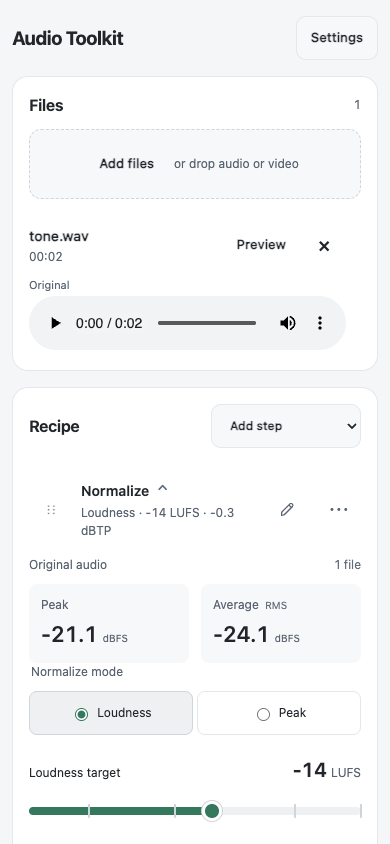
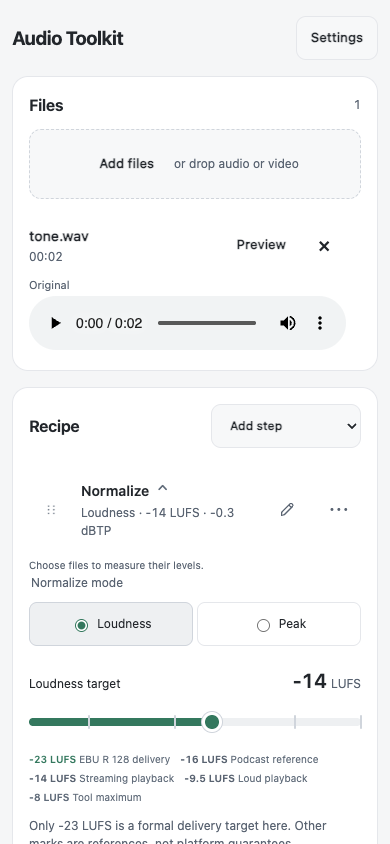
fix(sprint-24): reach peak targets without the ceiling guard
Peak mode subtracted the 1.0 dB ceiling guard, so a 0 dBTP request always landed near -1.0 dBTP. The guard now only applies to loudness ceiling decisions. The result line names the target, the DSP check expects the exact target, and the evidence no longer claims a one-directional meter under-read.

diff --git a/src/pcm/blocks.ts b/src/pcm/blocks.ts
@@ -2,9 +2,10 @@ import { LoudnessMeter, type LoudnessMeasurement } from "./loudness.ts";
 import type { Recipe } from "../recipe";
 
 export const BLOCK_FRAMES = 4096;
-// The BS.1770 true-peak meter can under-read ffmpeg by about 0.9 dB on
-// high-frequency content near Nyquist. Ceiling and true-peak target decisions
-// keep this margin. Reported peaks stay the measured value, not the padded one.
+// The BS.1770 true-peak meter can differ from ffmpeg near Nyquist in either
+// direction; a phase sweep read up to 0.64 dB above it. Loudness-mode ceiling
+// decisions keep this margin. A peak-mode target aims at the requested dBTP
+// directly. Reported peaks stay the measured value, not a padded one.
 export const TRUE_PEAK_CEILING_GUARD_DB = 1.0;
 export type PcmBlock = Readonly<{
   origin: number;
@@ -142,9 +143,7 @@ export async function* normalize(
         }
       } else if (truePeakMode) {
         const peak = measurement.truePeak > 0 ? measurement.truePeak : measurement.samplePeak;
-        requestedGain =
-          10 ** (targetDbtp / 20) /
-          (peak * 10 ** (TRUE_PEAK_CEILING_GUARD_DB / 20));
+        requestedGain = 10 ** (targetDbtp / 20) / peak;
         gainFactor = Math.min(1000, requestedGain);
       } else {
         // Legacy peak recipes keep their sample-peak meaning.

diff --git a/src/recipe-editor.tsx b/src/recipe-editor.tsx
@@ -256,7 +256,7 @@ function StepFields({
         </> : <>
           <DbControl label="Peak target (dBTP)" value={targetDbtp} min={-6} max={0} unit="dBTP" errorId={errorId}
             onChange={targetDbtp => onChange({ id: step.id, kind: "normalize", mode: "peak", targetDbtp })} />
-          <small class="panel-description">Peak mode matches the estimated true peak with a meter guard below the target. The loudness target is not used.</small>
+          <small class="panel-description">Peak mode aims at the requested true peak. The reported peak is this app's estimate, so another meter can read a little differently. The loudness target is not used.</small>
         </>}
       </>;
     }

diff --git a/src/file-row.tsx b/src/file-row.tsx
@@ -222,7 +222,7 @@ export function FileRow({
               {pcmStats && pcmStats.peakTargetDbtp !== null && pcmStats.truePeakDbtp !== null && (
                 <small>
                   {pcmStats.limitedNormalizations > 0 ? "Limited by the maximum gain" : "Peak target applied"} at the Peak step.
-                  {` Estimated true peak ${pcmStats.truePeakDbtp.toFixed(1)} dBTP.`}
+                  {` Estimated true peak ${pcmStats.truePeakDbtp.toFixed(1)} dBTP against a ${pcmStats.peakTargetDbtp.toFixed(1)} dBTP target.`}
                   {laterNote}
                 </small>
               )}

diff --git a/docs/sprint-evidence/sprint-24/scenario-01.md b/docs/sprint-evidence/sprint-24/scenario-01.md
@@ -1,12 +1,12 @@
 # Scenario 01. Independent loudness and true-peak reference
 
-Date: 2026-10-31. Base: `4d4395a` (`origin/main`). Branch: `codex/sprint-24-loudness`.
+Date: 2026-10-31. Base: `32356a4` (`origin/main`). Branch: `codex/sprint-24-loudness`.
 
 ## Method
 
 - K-weighting uses the libebur128/BS.1770 analog prototypes at the source rate. At 48 kHz the shelf and high-pass coefficients match the published BS.1770 values within `1e-6` in `tests/loudness.test.mjs`.
 - Integrated loudness uses 400 ms blocks at a 100 ms hop, a -70 LUFS absolute gate, and a -10 LU relative gate. Audio shorter than 400 ms uses one estimated block and sets `short`.
-- True peak uses the BS.1770-5 Annex 2 4-phase, 12-tap-per-phase FIR with a 12-sample causal history and 11 zero flushes at finish. Ceiling and true-peak target decisions keep a documented 1.0 dB meter guard; reported peaks remain the measured value.
+- True peak uses the BS.1770-5 Annex 2 4-phase, 12-tap-per-phase FIR with a 12-sample causal history and 11 zero flushes at finish. Loudness ceiling decisions keep a documented 1.0 dB meter guard; peak-mode targets aim at the requested dBTP directly. Reported peaks remain the measured value.
 - The channel weights are 1 for mono and stereo.
 
 ## Independent reference
@@ -29,7 +29,7 @@ node --experimental-strip-types .artifacts/loudness-reference.mjs
 | silence.wav | null | null | null | null | pass |
 | short.wav | null (informational) | -23.0 | -20.0 | -19.99 | informational, `short = true` |
 
-Tolerance: 0.5 dB for true peak and 0.5 LU for integrated loudness, except the 0.3 LU rows where the reference runner applies 0.3. The intersample row under-reads the ffmpeg estimate by 0.39 dB. A later 16 kHz burst fixture exposed a larger under-read of 0.83 to 0.9 dB. The 1.0 dB guard covers that measured worst case. With a -0.3 dBTP ceiling the exported file measured -0.4 dBTP by ffmpeg, so the requested ceiling held.
+Tolerance: 0.5 dB for true peak and 0.5 LU for integrated loudness, except the 0.3 LU rows where the reference runner applies 0.3. The intersample row reads 0.39 dB below the ffmpeg estimate. That is a difference from ffmpeg, not proof of a consistent absolute under-read: a phase sweep near Nyquist made this meter read up to 0.64 dB above ffmpeg. The 1.0 dB guard covers a few tenths of a dB of disagreement in either direction, and can be conservative or insufficient against another meter. With a -0.3 dBTP ceiling the exported file measured -0.4 dBTP by ffmpeg, 0.1 dB below the requested ceiling. That is inside the ceiling, but it is not an exact ceiling hit.
 
 Final runner output: `PASS: all independent loudness/true-peak tolerances met.`
 
@@ -37,7 +37,7 @@ Final runner output: `PASS: all independent loudness/true-peak tolerances met.`
 
 The first implementation compared the source true peak with the ceiling before applying the requested gain. A quiet, high-crest source targeted upward therefore bypassed the ceiling. The reviewer reproduced it in Chrome: the transient fixture at -8 LUFS with a -0.3 dBTP ceiling reported `Loudness target reached. Achieved -8.0 LUFS.` and `Clipped samples.`
 
-The comparison now uses `guardedTruePeak * gainFactor`, so it judges the peak after gain. A regression test builds a quiet burst signal whose source peak is below the ceiling but whose requested gain would exceed it; it fails against the old comparison and passes now. A 16 kHz burst export at -8 LUFS with a -0.3 dBTP ceiling reported `Peak ceiling limited loudness. Achieved -11.1 LUFS at an estimated -1.3 dBTP.` ffmpeg measured the exported file at -0.4 dBTP, so the ceiling held and no clipped samples were reported. The full suite is 123 passing tests.
+The comparison now uses `guardedTruePeak * gainFactor`, so it judges the peak after gain. A regression test builds a quiet burst signal whose source peak is below the ceiling but whose requested gain would exceed it; it fails against the old comparison and passes now. A 16 kHz burst export at -8 LUFS with a -0.3 dBTP ceiling reported `Peak ceiling limited loudness. Achieved -11.1 LUFS at an estimated -1.3 dBTP.` ffmpeg measured the exported file at -0.4 dBTP, 0.1 dB below the requested ceiling, and no clipped samples were reported. The export stays inside the ceiling, but the margin is not tighter than 0.1 dB on this fixture. The full suite is 123 passing tests.
 
 ## Unit-level checks
 

diff --git a/docs/sprint-evidence/sprint-24/verification.md b/docs/sprint-evidence/sprint-24/verification.md
@@ -1,6 +1,6 @@
 # Sprint 24 verification
 
-2026-10-31. Base `4d4395a`. Branch `codex/sprint-24-loudness`. Final checks were run in the worktree `/private/tmp/audio-sprint24` against system Chrome on `http://127.0.0.1:5185/audio-toolkit-v1/`.
+2026-10-31. Base `32356a4`. Branch `codex/sprint-24-loudness`. Final checks were run in the worktree `/private/tmp/audio-sprint24` against system Chrome on `http://127.0.0.1:5185/audio-toolkit-v1/`.
 
 ## Commands and results
 
@@ -14,16 +14,16 @@
 
 ## Adversarial checks
 
-- A 16 kHz burst at -8 LUFS with a -0.3 dBTP ceiling reported an estimated -1.3 dBTP in the app. ffmpeg measured the exported WAV at -0.4 dBTP, so the ceiling held. The 1.0 dB guard covers the measured 0.83 to 0.90 dB meter under-read.
+- A 16 kHz burst at -8 LUFS with a -0.3 dBTP ceiling reported an estimated -1.3 dBTP in the app. ffmpeg measured the exported WAV at -0.4 dBTP, 0.1 dB below the requested ceiling. That stays inside the ceiling but is not an exact hit. The 1.0 dB guard covers a few tenths of a dB of meter disagreement in either direction; a phase sweep near Nyquist read up to 0.64 dB above ffmpeg, so the guard is not a general accuracy bound.
 - Normalize then Gain +6 reports `Loudness target reached at the Normalize step. Achieved -14.0 LUFS. Later steps can change the final level.` ffmpeg measures -8.0 LUFS.
 - Normalize then Compressor 100% reports the same qualification plus the gain reduction. ffmpeg measures -19.9 LUFS.
-- A 0 dBTP Peak target exported at -0.6 dBTP by ffmpeg with an estimated -1.0 dBTP result. The -6 dBTP target uses the same guard.
+- A 0 dBTP Peak target exported at -0.0 dBTP by ffmpeg, matching the app's estimate. Peak mode aims at the target directly; the 1.0 dB guard is only for loudness ceiling decisions.
 - Silence reports `Loudness target not reached. The audio was silent or below the measurement gate.`
 - The rail magnet attracts at -14 and -23 at +0.02 and escapes at +0.03.
 
 ## Review
 
-Two independent reviewers covered the sprint. Their first round found four blocking issues: the ceiling under-read, the unqualified final-loudness claim, the peak mode using dBFS sample peak instead of dBTP true peak, and stale checks. All four were fixed and reproduced clean. The second round resolved the behavior findings; the only remaining stale-check finding was fixed in later commits. After the rebase onto Sprint 25, the root reran the updated checks on the merged tree successfully. The peak result now says `Peak target applied` because the 1.0 dB guard sits below the requested target.
+Two independent reviewers covered the sprint. Their first round found four blocking issues: the ceiling under-read, the unqualified final-loudness claim, the peak mode using dBFS sample peak instead of dBTP true peak, and stale checks. All four were fixed and reproduced clean. The second round resolved the behavior findings; the only remaining stale-check finding was fixed in later commits. After the rebase onto Sprint 25, the root reran the updated checks on the merged tree successfully. A later review round found the evidence overstated two results, the base commit was stale, and peak mode silently missed its own target by 1.0 dB. This revision corrects all three: a -0.3 dBTP ceiling whose export measured -0.4 dBTP is described as 0.1 dB inside the ceiling, not "held"; the base is `32356a4`; and peak mode no longer applies the loudness guard, so a 0 dBTP request exported at -0.0 dBTP and reports `Peak target applied at the Peak step. Estimated true peak 0.0 dBTP against a 0.0 dBTP target.`
 
 ## Gaps
 

diff --git a/docs/sprint-evidence/sprint-24/scenario-04.md b/docs/sprint-evidence/sprint-24/scenario-04.md
@@ -11,7 +11,7 @@ Date: 2026-10-31. Branch: `codex/sprint-24-loudness`.
 - High-crest export result: `Peak ceiling limited loudness. Achieved -34.3 LUFS at an estimated -2.0 dBTP.` The requested target was -14 LUFS at a -1 dBTP ceiling, so success is not claimed.
 - `pageErrors` is empty. The browser check JSON records the exact strings.
 
-After the review fixes, a 16 kHz burst export at -8 LUFS with a -0.3 dBTP ceiling reported `Peak ceiling limited loudness. Achieved -11.1 LUFS at an estimated -1.3 dBTP.` ffmpeg measured the exported file at -0.4 dBTP, so the ceiling held. A Normalize then Compressor 100% flow now reads `Loudness target reached at the Normalize step. Achieved -14.0 LUFS. Later steps can change the final level.` ffmpeg measures that file at -19.9 LUFS; the result no longer claims a final loudness. A Normalize then Gain +6 flow is qualified the same way, and a later Channels step is included in the same detection. A 0 dBTP Peak-mode export measured -0.6 dBTP by ffmpeg with an estimated -1.0 dBTP result. `scripts/sprint-24-check.mjs` also passes at the fixed head against `http://127.0.0.1:5185/audio-toolkit-v1/`.
+After the review fixes, a 16 kHz burst export at -8 LUFS with a -0.3 dBTP ceiling reported `Peak ceiling limited loudness. Achieved -11.1 LUFS at an estimated -1.3 dBTP.` ffmpeg measured the exported file at -0.4 dBTP, which is 0.1 dB below the requested -0.3 dBTP ceiling; it is not exactly on the ceiling and this file does not prove tighter accuracy. A Normalize then Compressor 100% flow now reads `Loudness target reached at the Normalize step. Achieved -14.0 LUFS. Later steps can change the final level.` ffmpeg measures that file at -19.9 LUFS; the result no longer claims a final loudness. A Normalize then Gain +6 flow is qualified the same way, and a later Channels step is included in the same detection. A 0 dBTP Peak-mode export reads `Peak target applied at the Peak step. Estimated true peak 0.0 dBTP against a 0.0 dBTP target.` ffmpeg measured the saved WAV at -0.0 dBTP, so the target was reached on this fixture. That is one 1 kHz tone file, not a general accuracy bound; the result still labels the peak as an estimate. `scripts/sprint-24-check.mjs` also passes at the fixed head against `http://127.0.0.1:5185/audio-toolkit-v1/`.
 
 ## Evidence
 
@@ -19,6 +19,7 @@ After the review fixes, a 16 kHz burst export at -8 LUFS with a -0.3 dBTP ceilin
 - `captures/04-preview-compressor.png`
 - `captures/05-export-result.png`
 - `captures/06-ceiling-limited.png`
+- `captures/08-peak-result.png`
 
 ## Limits
 

diff --git a/docs/sprint-evidence/sprint-24/scenario-03.md b/docs/sprint-evidence/sprint-24/scenario-03.md
@@ -5,7 +5,7 @@ Date: 2026-10-31. Branch: `codex/sprint-24-loudness`.
 - `recipeSchema.version` stays `1`.
 - `mode: z.enum(["loudness", "peak"]).default("peak")` keeps legacy `{ kind: "normalize", targetDbfs }` steps as peak recipes. `tests/recipe.test.mjs` parses a legacy step and asserts `mode === "peak"` with the same target.
 - New normalize steps are `{ mode: "loudness", targetLufs: -14, ceilingDbtp: -0.3 }`.
-- Loudness accepts -30 to -8 in 0.5 LUFS steps. Ceiling accepts -6 to 0 in 0.1 dB steps. New Peak steps accept -6 to 0 dBTP in 0.1 dB steps and default to -0.3 dBTP. Legacy peak recipes keep their -60 to 0 dBFS sample-peak target so their meaning is unchanged. The 1.0 dB true-peak guard means a new -6 dBTP target exports at about -7 dBTP, so the result says `Peak target applied`, not `reached`. A 0 dBTP target exported at -0.6 dBTP by ffmpeg with an estimated -1.0 dBTP result.
+- Loudness accepts -30 to -8 in 0.5 LUFS steps. Ceiling accepts -6 to 0 in 0.1 dB steps. New Peak steps accept -6 to 0 dBTP in 0.1 dB steps and default to -0.3 dBTP. Legacy peak recipes keep their -60 to 0 dBFS sample-peak target so their meaning is unchanged. Peak mode aims at the requested dBTP directly, so the target is reachable across the whole range. The 1.0 dB guard applies only to the loudness ceiling. The result reports the app's estimate: `Peak target applied at the Peak step. Estimated true peak 0.0 dBTP against a 0.0 dBTP target.` A 0 dBTP target exported at -0.0 dBTP by ffmpeg, matching the estimate on that fixture.
 - `superRefine` rejects mixed fields in both directions: loudness with `targetDbfs`, and peak with `targetLufs` or `ceilingDbtp`. It also rejects missing mode-specific fields.
 - Compressor steps are `{ enabled, amount, preset }`, default `{ enabled: false, amount: 50, preset: "speech" }`, with amount bounded to 0..100.
 - Planner behavior: a disabled or zero-amount compressor is a bypass and can still stream-copy; an enabled compressor changes the signal and reports "Compression requires re-encoding."

diff --git a/docs/sprint-evidence/sprint-24/README.md b/docs/sprint-evidence/sprint-24/README.md
@@ -1,11 +1,12 @@
 # Sprint 24 evidence. Loudness, true peak and compression
 
-Base `4d4395a`. Branch `codex/sprint-24-loudness`. All evidence was produced in the worktree `/private/tmp/audio-sprint24`.
+Base `32356a4`. Branch `codex/sprint-24-loudness`. All evidence was produced in the worktree `/private/tmp/audio-sprint24`.
 
 | Requirement | Artifact | State |
 | --- | --- | --- |
 | Gated integrated loudness and K-weighting | `scenario-01.md`, `tests/loudness.test.mjs` | verified against ffmpeg reference |
-| True peak with BS.1770 FIR and ceiling guard | `scenario-01.md`, `tests/loudness.test.mjs` | verified; 0.39 dB reference delta on the intersample fixture, 0.9 dB worst case on 16 kHz bursts, 1.0 dB guard |
+| True peak with BS.1770 FIR and loudness ceiling guard | `scenario-01.md`, `tests/loudness.test.mjs` | verified; 0.39 dB ffmpeg delta on the intersample fixture, 1.0 dB guard on the loudness ceiling only, phase sweep shows up to +0.64 dB over-read near Nyquist |
+| Peak-mode target honesty | `scenario-03.md`, `scenario-04.md`, `captures/08-peak-result.png` | verified; a 0 dBTP target exports at -0.0 dBTP on the tone fixture and the result reports the estimate |
 | Legacy peak recipes, new loudness defaults and true-peak peak mode | `scenario-03.md`, `tests/recipe.test.mjs`, `tests/loudness.test.mjs` | verified; new Peak is -6..0 dBTP, legacy sample peak preserved |
 | Nonlinear loudness rail, marks and magnet | `scenario-02.md`, `tests/ui-controls.test.mjs`, `captures/01-loudness-rail.png`, `captures/07-mobile-loudness.png` | verified in Chrome and unit tests |
 | Compressor bypass, ordering, linked detection and bounds | `scenario-05.md`, `tests/compressor.test.mjs` | verified |
